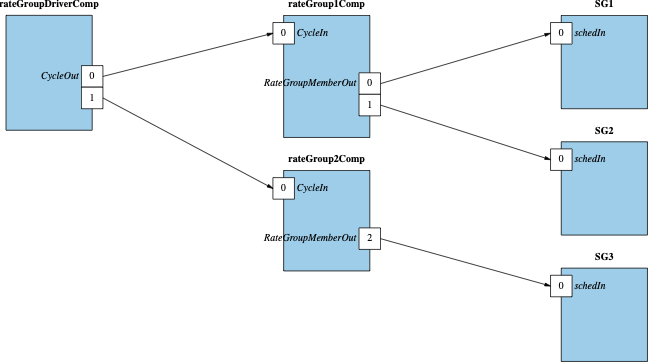
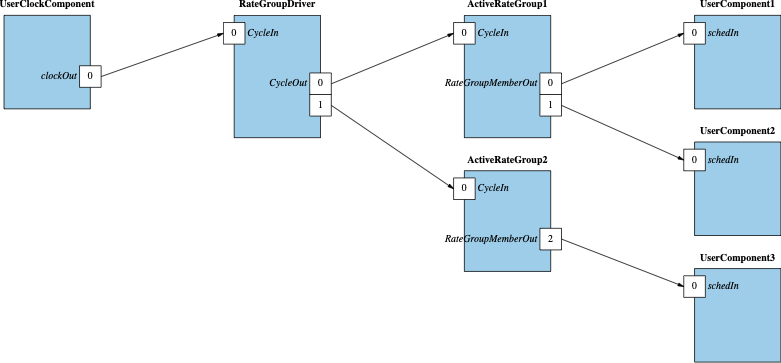
lestarch: rate group documentation review fixes

diff --git a/docs/UsersGuide/best/rate-group.md b/docs/UsersGuide/best/rate-group.md
@@ -3,17 +3,26 @@
 Often embedded software must perform actions at a fixed rate. In a given system there are usually collections of actions
 that must run at similar rates. For example, control algorithms may run at 10Hz while telemetry collection may run at
 1Hz and background tasks may be updated at 0.1Hz. F´ provides a mechanism to trigger time based actions called "rate
-groups". A rate group contains multiple output `Sched` ports that it sends a messages to at a repeated rate. Thus
-components having an input `Sched` port can run a repeated action at this rate. Rate groups are driven by a central rate
-group driver and achieve their rates by dividing the incoming signal from the rate group driver.
+groups". The `ActiveRateGroup` component contains multiple output `Sched` ports that it sends a messages to at a repeated
+rate. Thus components having an input `Sched` port can run a repeated action at this rate. Rate groups are driven by a
+central rate group driver and achieve their rates by dividing the incoming signal from the rate group driver.
 
 ![Rate Groups](./img/rate_group.png)
 
 ## Rate Group Driver
 
-The rate group driver is the source of the "clock" for various other rate groups. It is usually driven off a system
-timing interrupt or some other reliable clock source. On the incoming cycle call from that source it sends a message to
-each rate group attached to it.
+The `RateGroupDriver` component is the source of the "clock" for the various rate groups. It is usually driven off a
+system timing interrupt or some other reliable clock source. On the incoming cycle call from that source it sends a
+message to each rate group attached to it thus starting each cycle.
+
+### System Clock Sources
+
+A system clock source needs to be supplied to the rate group driver. This clock source must run at a multiple of the
+rates of the various rate groups and drives the `CycleIn` port of the rate group driver. Most projects implement a
+clock component that translates between the system clock and the port call to rate group driver's cycle in port.
+
+The referenece application calls the cycle in port followed by a sleep for the system clock time within a while loop
+to simulate a system driven clock. 
 
 ## Active Rate Group
 
@@ -26,6 +35,11 @@ achieve repeated signals at 10Hz, 1Hz, and 0.1Hz, the project would need to setu
 Active rate groups run on a thread and thus there is some jitter between the system driver and the execution of the rate
 group. However, multiple active rate groups can start up in unison. A passive rate group could be created that is
 synchronous and would remove jitter at the expense of synchronous execution.
+
+Should the synchronous work done by a rate group take longer than the rate group's cycle time to complete, the rate
+group will be unable to run the next cycle. This is known as a rate group slip and will produce a WARNING_HI event.
+Frequent slips indicate that the system is failing to keep up with the repetitive work and the cycle time may need to
+be increased or child components need to be moved to slower rate groups.
 
 ### Active Rate Groups, Ordering, and Priority
 
@@ -44,3 +58,4 @@ one clock cycle the rate group will slip. However, each child will run in sequen
 message from the active rate group but will not start until their thread becomes active. This allows children to run
 without blocking each other, however; it becomes harder to detect when too much work is scheduled on for a given cycle
 period.
+
